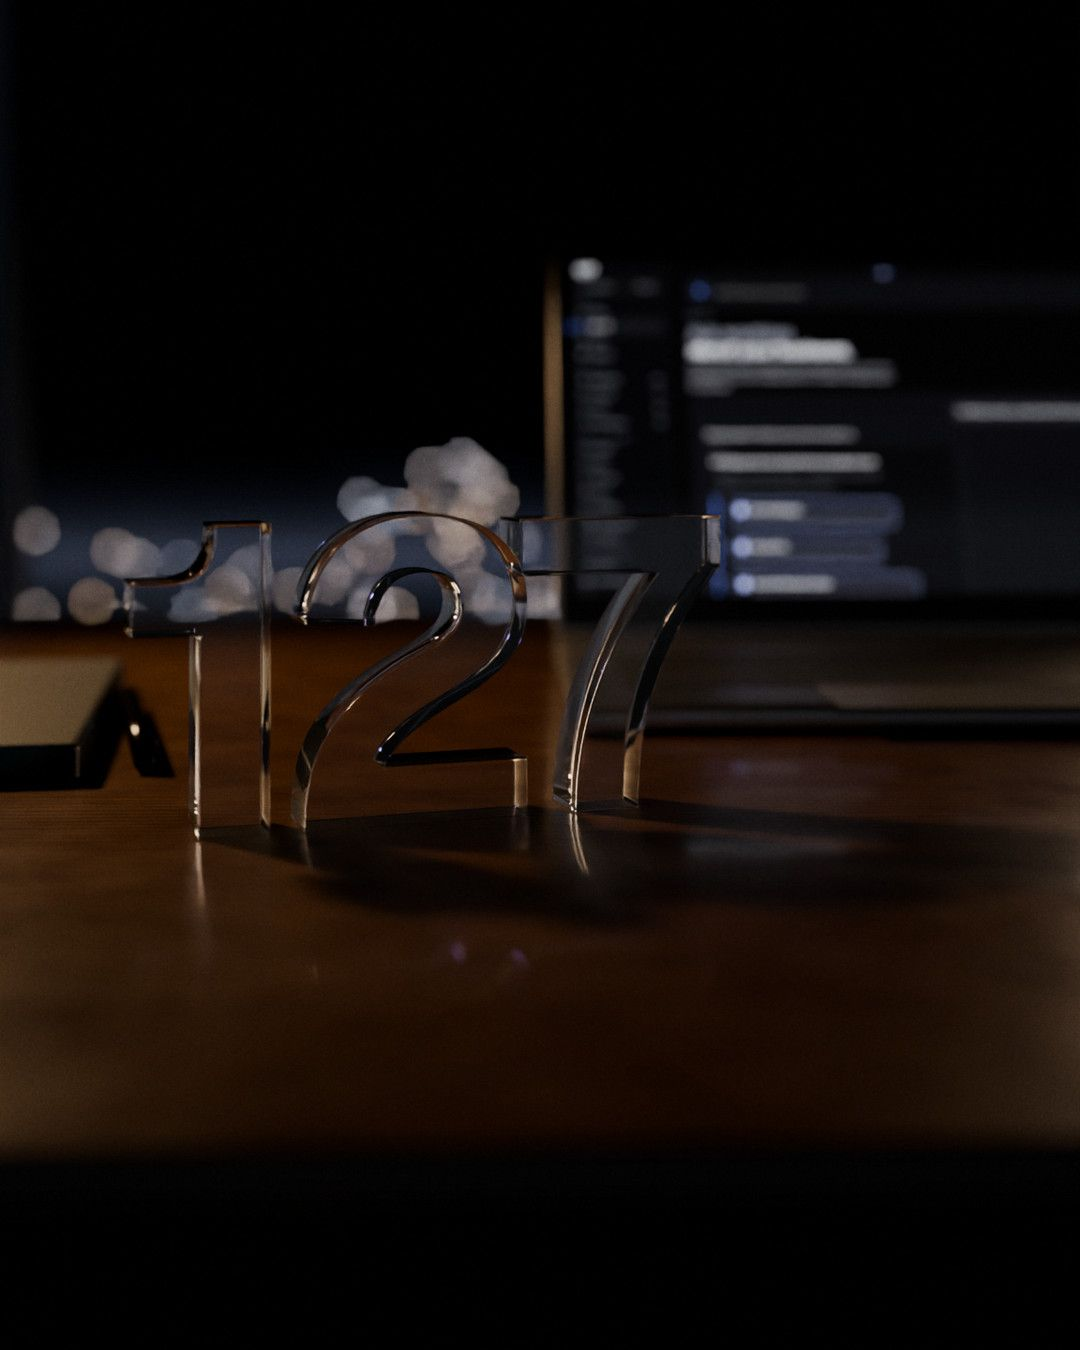
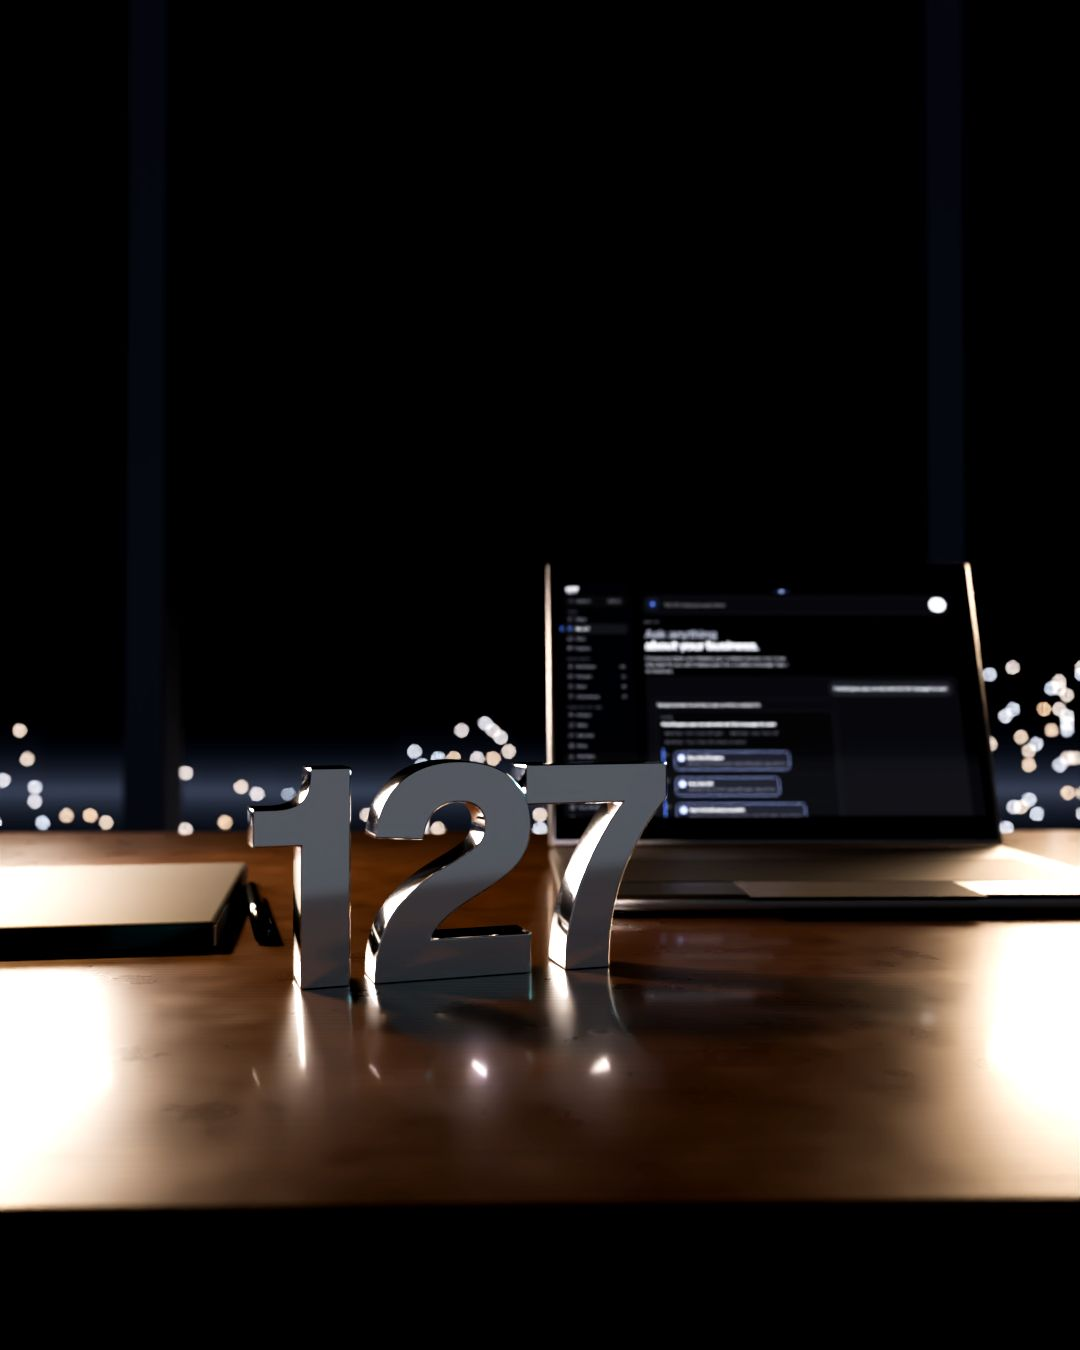
Pricing and Circle: no fine print; a sharper desk with a chrome 127
Eli: remove the gray disclaimers everywhere, the logo is almost invisible, the background is too blurred.
The three Illustration captions come off the heroes (Legal L103; alt text keeps Illustration of). Terms,
consent and honor lines on /pricing, the founding checkout lines, and the homepage typicality notes read
as copy at body size and full contrast; the stack's keep line repeated the plan's and is cut. The roadmap
lede says the roadmap is in your account. The HQ desk is re-rendered at f/5.6 with a chrome 127 to the
right of the headline, and the phone callout moves onto the screen.

Claude-Session: https://claude.ai/code/session_01WEZ1Pgd2jVPL3cWEZPgDMb

diff --git a/public/css/pricing.css b/public/css/pricing.css
@@ -13,7 +13,6 @@
 html.js .prc-scene.fit .prc-room { object-fit: fill; }
 .prc-frame::after { content: ''; position: absolute; inset: 0; pointer-events: none;
   background: linear-gradient(90deg, rgba(6,6,7,.82) 0%, rgba(6,6,7,.42) 32%, rgba(6,6,7,0) 55%), linear-gradient(0deg, #060607 0%, rgba(6,6,7,.5) 18%, rgba(6,6,7,0) 40%); }
-.prc-cap { position: absolute; right: clamp(16px, 4vw, 56px); bottom: calc(clamp(48px, 6vw, 80px) + 4px); z-index: 2; margin: 0; max-width: 34ch; font: 400 11px/1.45 var(--mono); color: rgba(237,237,242,.5); text-align: right; text-shadow: 0 1px 8px #060607; }
 .prc-hero-copy { position: relative; width: 100%; }
 .prc-h1 { font-family: var(--display); font-weight: 600; font-size: clamp(50px, 7vw, 108px); line-height: .92; letter-spacing: -.05em; margin: 0; max-width: 8.5ch; color: var(--pr-ink); text-wrap: balance; }
 .prc-lede { font-size: clamp(17px, 1.4vw, 19px); line-height: 1.5; max-width: 38ch; margin: 24px 0 28px; color: var(--ink-2); }
@@ -40,7 +39,7 @@ html.js .prc-intro .prc-pin b, html.js .prc-intro .prc-pin::after { animation: p
 html.js .prc-intro .prc-pin::before { animation: prc-stem .8s var(--pr-ease) both; animation-delay: calc(1.3s + var(--n) * 160ms); }
 html.js .prc-intro .prc-h1 { animation: prc-rise 1s var(--pr-ease) .5s both; }
 html.js .prc-intro .prc-lede { animation: prc-rise 1s var(--pr-ease) .7s both; }
-html.js .prc-intro .prc-jump, html.js .prc-intro .prc-cap { animation: prc-in .8s ease 1.1s both; }
+html.js .prc-intro .prc-jump { animation: prc-in .8s ease 1.1s both; }
 
 /* the plans as one ledger: hairline columns, no boxes, no glow */
 .prc-plans { padding: clamp(56px, 8vw, 104px) 0 clamp(48px, 6vw, 80px); border-top: 1px solid var(--pr-hair); }
@@ -128,7 +127,6 @@ html.js .prc-intro .prc-jump, html.js .prc-intro .prc-cap { animation: prc-in .8
   /* desktop: the type sits up in the dark corner of the room, the open roadmap keeps the lower right */
   .prc-hero { min-height: clamp(640px, 92svh, 940px); align-items: flex-start; padding: clamp(96px, 13svh, 150px) 0 0; }
   .prc-h1-hq { max-width: 11ch; font-size: clamp(56px, 6vw, 92px); }
-  .prc-cap { right: auto; left: max(28px, calc((100vw - var(--max)) / 2 + 28px)); text-align: left; bottom: 28px; }
 }
 @media (max-width: 1000px) {
   .prc .plans-ledger .plan + .plan { border-left: 0; border-top: 1px solid var(--pr-hair); }
@@ -142,7 +140,6 @@ html.js .prc-intro .prc-jump, html.js .prc-intro .prc-cap { animation: prc-in .8
   .prc-pin::before { height: 44px; }
   .prc-pin b { bottom: 50px; font-size: 10px; }
   .prc-pin b span { display: none; }
-  .prc-cap { top: 12px; bottom: auto; left: 16px; right: 16px; max-width: none; font-size: 10px; text-align: left; }
   .prc-hero-copy { margin-top: -64px; z-index: 1; }
   .prc-lede { margin: 18px 0 22px; }
   .prc-plans { padding-top: 40px; padding-bottom: 96px; }
@@ -163,3 +160,7 @@ html.js .prc-intro .prc-jump, html.js .prc-intro .prc-cap { animation: prc-in .8
 @media (prefers-reduced-motion: reduce) {
   .prc *, .prc *::before, .prc *::after { animation: none !important; transition: none !important; }
 }
+
+/* Legal L103: terms and consent sit next to the claim at readable size and full contrast; the stack's keep line repeats the plan's */
+.prc .plan-under, .prc .consent-line, .prc .honor-line, .prc .section-head p.honor-line { font-size: 15px; line-height: 1.5; color: var(--ink); }
+.prc .hqs-keep { display: none; }

diff --git a/public/css/style.css b/public/css/style.css
@@ -777,7 +777,7 @@ h2.grad, h2 .grad, .section-head h2 .grad{background:none;-webkit-text-fill-colo
 .ticker-track{display:flex;width:max-content;animation:tick 48s linear infinite}
 .ticker span{font-size:14px;color:var(--ink-2);white-space:nowrap;padding:0 28px;position:relative}
 .ticker span::after{content:'';position:absolute;right:-3px;top:50%;width:5px;height:5px;border-radius:50%;background:var(--muted);transform:translateY(-50%)}
-.ticker-note{margin:14px auto 0;padding:0 16px;max-width:1100px;font-size:13px;line-height:1.45;color:var(--ink-2);text-align:center}
+.ticker-note{margin:14px auto 0;padding:0 16px;max-width:1100px;font-size:15px;line-height:1.5;color:var(--ink);text-align:center}
 .ticker-note a{color:inherit;text-decoration:underline;text-underline-offset:2px}
 @keyframes tick{to{transform:translateX(-50%)}}
 
@@ -902,6 +902,9 @@ html.js [data-reveal].in{opacity:1;transform:none}
 .wl-row.two{grid-template-columns:1fr 1.4fr}
 .wl-form .btn{justify-self:start}
 .consent-line{margin:0;font-size:13px;line-height:1.5;color:var(--ink-2)}
+/* Legal L103: price, renewal and honor terms read as copy beside the button, at body size and full contrast */
+.terms-line{margin:10px 0 0;font-size:15px;line-height:1.5;color:var(--ink)}
+.terms-line a{color:inherit;text-decoration:underline;text-underline-offset:2px}
 .consent-line a{color:inherit;text-decoration:underline;text-underline-offset:2px}
 @media (max-width:760px){.wl-row.two{grid-template-columns:1fr}.wl-form .btn{justify-self:stretch}}
 
@@ -1258,7 +1261,7 @@ main .legal-foot { margin-top: 32px; }
 
 /* founder numbers */
 .fx-body .stats span{font-size:13px;line-height:1.45}
-.stats-note{margin:10px 0 0;font-size:13px;line-height:1.5;color:var(--muted)}
+.stats-note{margin:10px 0 0;font-size:15px;line-height:1.5;color:var(--ink)}
 .stats-note a{color:inherit;text-decoration:underline;text-underline-offset:2px}
 .cc video{width:100%;height:100%;object-fit:cover;filter:grayscale(1);display:block}
 
@@ -1478,7 +1481,7 @@ main .legal-foot { margin-top: 32px; }
 .v5 .ticker{margin-top:auto;padding:18px 0 20px}
 .v5 .ticker span{font-family:var(--mono);font-size:11.5px;letter-spacing:.14em;text-transform:uppercase;color:var(--ink-2);padding:0 30px}
 .v5 .ticker span::after{width:4px;height:4px;background:#4a4b55}
-.v5 .ticker-note{font-size:12px;color:var(--muted)}
+.v5 .ticker-note{font-size:15px;color:var(--ink)}
 
 /* the hook */
 .v5 .lit.punch span{background:linear-gradient(180deg,#fff 22%,#a7a9b6);-webkit-background-clip:text;background-clip:text;color:transparent}
